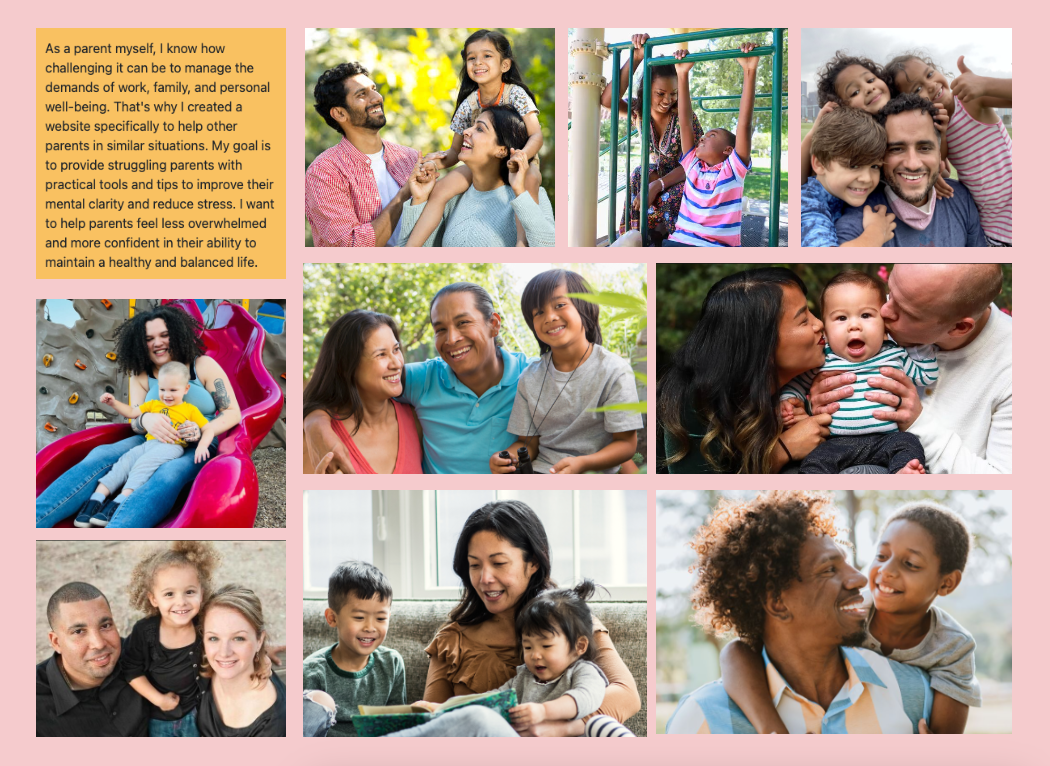
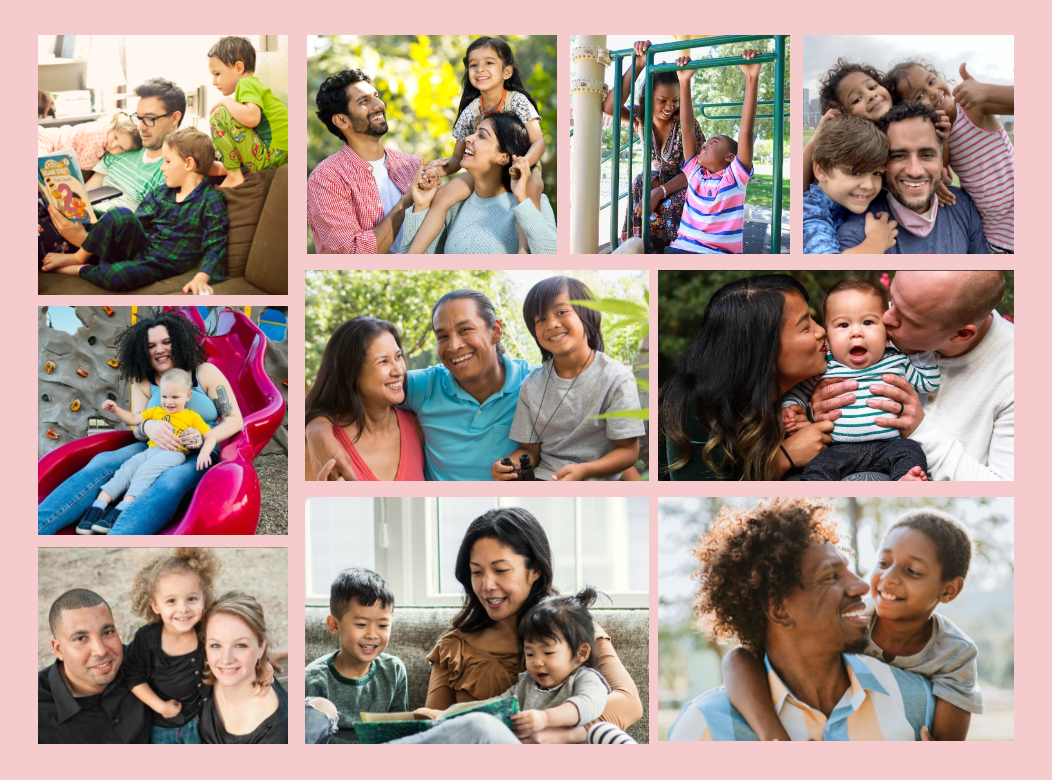
replaced first image and margins

diff --git a/index.html b/index.html
@@ -31,6 +31,9 @@
                 <li class="nav-item">
                     <a class="nav-link" href="#support">Support & Community</a>
                 </li>
+                <li class="nav-item">
+                    <a class="nav-link" href="#help">Additional Help</a>
+                </li>
             </ul>
         </div>
     </div>
@@ -39,24 +42,26 @@
 
 <div data-bs-spy="scroll" data-bs-target="#navbar1" data-bs-root-margin="0px 0px -40%" data-bs-smooth-scroll="true">
 
-<!--Image and text under nav bar-->
-<!--<section >-->
-    <div class="container ">
-        <div class="row mt-5 py-5 align-items-center">
+<!--Intro-->
+<section>
+    <div class="container">
+        <div class="row mt-4 ">
             <div class="col-lg-12">
                 <img class="img-fluid rounded-3 w-100" src="public_html/images/top.jpg" alt="top">
             </div>
-<!--            <div class="col-lg-5 ">-->
-<!--                <p class="p-3 me-5 orange1 rounded-3">-->
-<!--                    As a parent myself, I know how challenging it can be to manage the demands of work, family, and personal well-being. That's why I created a website specifically to help other parents in similar situations. My goal is to provide struggling parents with practical tools and tips to improve their mental clarity and reduce stress. I want to help parents feel less overwhelmed and more confident in their ability to maintain a healthy and balanced life.-->
-<!--                </p>-->
-<!--            </div>-->
         </div>
     </div>
-<!--</section>-->
+    <div class="container">
+        <div class="row mb-5">
+            <div class="col-lg-12 gx-0">
+                <h5 class="text-center pink3 text-dark p-5 rounded-3 mt-2">As a parent myself, I know how challenging it can be to manage the demands of work, family, and personal well-being. That's why I created a website specifically to help other parents in similar situations. My goal is to provide struggling parents with practical tools and tips to improve their mental clarity and reduce stress. I want to help parents feel less overwhelmed and more confident in their ability to maintain a healthy and balanced life.</h5>
+            </div>
+        </div>
+    </div>
+</section>
 
 
-<!--Children with Books-->
+<!--Children-->
 <section id="children">
     <div class="container">
         <div class="row">
@@ -121,73 +126,73 @@
         <div class="container-fluid text-light">
             <div class="row mt-5">
 
-                <div class="col-lg-1 text-center">
+                <div class="col-lg-2 col-6 text-center">
                     <a href="https://freekidsbooks.org/under-my-pillow/" target="_blank">
                         <img class="img-fluid" src="public_html/images/under.jpg" alt="under">
                     </a>
                     <p class="mt-2">Under My Pillow</p>
                 </div>
-                <div class="col-lg-1 text-center">
+                <div class="col-lg-2 col-6 text-center">
                     <a href="https://freekidsbooks.org/the-good-fox-a-new-fable/" target="_blank">
                         <img class="img-fluid" src="public_html/images/fox.jpg" alt="fox">
                     </a>
                     <p class="mt-3">The Good Fox</p>
                 </div>
-                <div class="col-lg-1 text-center">
+                <div class="col-lg-2 col-6 text-center">
                     <a href="https://freekidsbooks.org/doing-my-chores-monkeypen/" target="_blank">
                         <img class="img-fluid" src="public_html/images/chores.jpg" alt="chores">
                     </a>
                     <p class="mt-3">Doing My Chores</p>
                 </div>
-                <div class="col-lg-1 text-center">
+                <div class="col-lg-2 col-6 text-center">
                     <a href="https://freekidsbooks.org/dont-be-a-bully-be-nice-book-3-revised-edition/" target="_blank">
                         <img class="img-fluid" src="public_html/images/noBully.jpg" alt="noBully">
                     </a>
                     <p class="mt-2">Don't Be a Bully</p>
                 </div>
-                <div class="col-lg-1 text-center">
+                <div class="col-lg-2 col-6 text-center">
                     <a href="https://freekidsbooks.org/the-golden-flower/" target="_blank">
                         <img class="img-fluid" src="public_html/images/golden.jpg" alt="golden">
                     </a>
                     <p class="mt-2">The Golden Flower</p>
                 </div>
-                <div class="col-lg-1 text-center">
+                <div class="col-lg-2 col-6 text-center">
                     <a href="https://monkeypen.com/blogs/news/up-and-down-and-all-around-free-children-book" target="_blank">
                         <img class="img-fluid" src="public_html/images/around.jpg" alt="around">
                     </a>
                     <p class="mt-3">Up, Down & All Around</p>
                 </div>
-                <div class="col-lg-1 text-center">
+                <div class="col-lg-2 col-6 text-center">
                     <a href="https://freekidsbooks.org/odd-one-out-an-anti-discrimination-story-for-elementary-school/" target="_blank">
                         <img class="img-fluid" src="public_html/images/odd.jpg" alt="odd">
                     </a>
                     <p class="mt-3">Odd One Out</p>
                 </div>
-                <div class="col-lg-1 text-center">
+                <div class="col-lg-2 col-6 text-center">
                     <a href="https://monkeypen.com/blogs/news/abe-the-service-dog-free-children-book" target="_blank">
                         <img class="img-fluid" src="public_html/images/service.jpg" alt="service">
                     </a>
                     <p class="mt-2">Abe the Service Dog</p>
                 </div>
-                <div class="col-lg-1 text-center">
+                <div class="col-lg-2 col-6 text-center">
                     <a href="https://monkeypen.com/blogs/news/tooth-fairy-free-children-book" target="_blank">
                         <img class="img-fluid" src="public_html/images/tooth.jpg" alt="tooth">
                     </a>
                     <p class="mt-2">Tooth Fairy</p>
                 </div>
-                <div class="col-lg-1 text-center">
+                <div class="col-lg-2 col-6 text-center">
                     <a href="https://monkeypen.com/blogs/news/do-you-wonder-why-bugs-are-good-free-children-book" target="_blank">
                         <img class="img-fluid" src="public_html/images/bugs.jpg" alt="bugs">
                     </a>
                     <p class="mt-2">Do you Wonder Why Bugs Are Good?</p>
                 </div>
-                <div class="col-lg-1 text-center">
+                <div class="col-lg-2 col-6 text-center">
                     <a href="https://monkeypen.com/blogs/news/up-in-the-air-free-children-book" target="_blank">
                         <img class="img-fluid" src="public_html/images/air.jpg" alt="air">
                     </a>
                     <p class="mt-2">Up in the Air</p>
                 </div>
-                <div class="col-lg-1 text-center">
+                <div class="col-lg-2 col-6 text-center">
                     <a href="https://monkeypen.com/blogs/news/marty-mongoose-free-children-book" target="_blank">
                         <img class="img-fluid" src="public_html/images/mongoose.jpg" alt="mongoose">
                     </a>
@@ -197,7 +202,7 @@
         </div>
 
         <!--Meaningful-->
-        <p class="mt-3 text-light fs-4 text-center">Meaningful Activities</p>
+        <p class="mt-4 text-light fs-4 text-center">Meaningful Activities</p>
         <div class="accordion accordion-flush" id="accordionFlushExample2">
             <div class="accordion-item">
                 <h2 class="accordion-header" id="flush-headingSix">
@@ -807,7 +812,6 @@
 </section>
 
 
-
 <!--Household heading-->
 <section id="household">
 <div class="container">
@@ -818,17 +822,13 @@
     </div>
 </div>
 
-
-<!--This section will have lists on how to organize commitments, schedule, chores, and a calendar. It’ll contain four columns on a large screen and will be stacked on small screens. Each with a heading, an image displaying an example of the set-up, and a list, they’ll be color coded to help keep eyes focused.There will be links on the bottom of each list to additional resources such as Google Calendar, a chore chart, Google Keep, etc.. -->
-
-
 <!--Household columns-->
 
     <div class="container">
         <div class="row">
 
             <div class="col-lg-3 teal400 py-3 text-center"> <!--Second Column-->
-                <p class="text-primary teal400">Organizing</p>
+                <h5 class="text-primary">Organizing</h5>
                 <img class="img-fluid mx-auto rounded-4" src="public_html/images/declutter.jpg" alt="declutter">
                 <ul class="list-group border border-primary rounded-3 p-3 mt-4">
                     <li class="list-group-item teal400 text-primary">Break into small manageable steps.</li>
@@ -840,7 +840,7 @@
             </div><!--Second Column-->
 
             <div class="col-lg-3 teal400 py-3 text-center"> <!--Third Column-->
-                <p class="text-success teal400">Commitments</p>
+                <h5 class="text-success ">Commitments</h5>
                 <img class="img-fluid mx-auto rounded-4" src="public_html/images/commitments.jpg" alt="commitments">
                 <ul class="list-group border border-success rounded-3 p-3 mt-4">
                     <li class="list-group-item teal400 text-success">Make a list of all your commitments, no matter how small: Work, personal, and family obligations.</li>
@@ -852,7 +852,7 @@
             </div><!--Third Column-->
 
             <div class="col-lg-3 teal400 py-3 text-center"> <!--Fourth Column-->
-                <p class="text-primary teal400">Chores</p>
+                <h5 class="text-primary ">Chores</h5>
                 <img class="img-fluid mx-auto rounded-4" src="public_html/images/chores2.jpg" alt="chores2">
                 <ul class="list-group border border-primary rounded-3 p-3 mt-4">
                     <li class="list-group-item teal400 text-primary">Make a list of all chores.</li>
@@ -865,7 +865,7 @@
             </div><!--Fourth Column-->
 
             <div class="col-lg-3 teal400 py-3 text-center"> <!--First column-->
-                <p class="text-success teal400">Schedule</p>
+                <h5 class="text-success ">Schedule</h5>
                 <img class="img-fluid mx-auto rounded-4" src="public_html/images/boxmethod.jpg" alt="boxmethod">
                 <ul class="list-group border border-success rounded-3 p-3 mt-4">
                     <li class="list-group-item teal400 text-success">Box Method: It's flexible and can  be adjusted to fit each day.</li>
@@ -879,10 +879,6 @@
         </div>
     </div>
 </section>
-
-
-
-<!--This section will have an interactive carousel displaying tips on bettering self-care and mental health by displaying slides about emotions and triggers, nutrition, sleep, breaks and relaxing, boundaries, and exercise. There will be six slides containing an image as the background, a heading and text box in front of each picture, clickable arrows on the left and right to navigate to the next and previous slides, at the sixth slide clicking the next arrow will return to the first slide. There will also be clickable lines on the bottom of the carousel to each slide. -->
 
 
 <!--Mental Health & Self Care-->
@@ -947,6 +943,7 @@
         </div>
     </div>
 </section>
+
 
 <!--Support & Community-->
  <section id="support">
@@ -1264,7 +1261,7 @@
 
 
 <!--Additional Help-->
-  <section>
+  <section id="help">
         <div class="container">
             <div class="row mt-4">
                 <div class="col-lg-12 gx-0">
@@ -1277,7 +1274,6 @@
         <div class="row">
             <p class="mt-3 text-center bg-light rounded-3 p-2">In order to achieve your goal you may need to speak with a nutritionist about which types of food would be best for your body. You could talk with a doctor about how to get a more restful night's sleep. Depending on your mental status consider talking to a therapist to help sort through your emotions and thoughts.</p>
 
-               <p> Effective communication is essential to receive the best care from professionals. By being honest, asking questions, and discussing treatment options, you can ensure that your concerns are addressed and that you receive the care you need.</p>
             <div>
             <p class="text-center">Be honest and provide accurate information to assess your situation and provide the best possible care.</p>
             <p class="text-center">Ask questions to better understand your situation and make informed decisions about your health.</p>
@@ -1514,8 +1510,10 @@
                 </div> <!--End of accordion-->
             </div>
         </div>
+          <p class="mt-3 text-center bg-light rounded-3 p-2"> Effective communication is essential to receive the best care from professionals. By being honest, asking questions, and discussing treatment options, you can ensure that your concerns are addressed and that you receive the care you need.</p>
       </div>
   </section>
+
 
 <!--Footer-->
 <div class="container-fluid black text-light text-center px-5 pt-5 ">

diff --git a/public_html/styles/styles.css b/public_html/styles/styles.css
@@ -181,6 +181,9 @@
     background-color: #ffaebb;
 }
 
+.pink3 {
+    background-color: #F5CBCD;
+ }
 
 .magenta {
     color: #d81980 !important;
